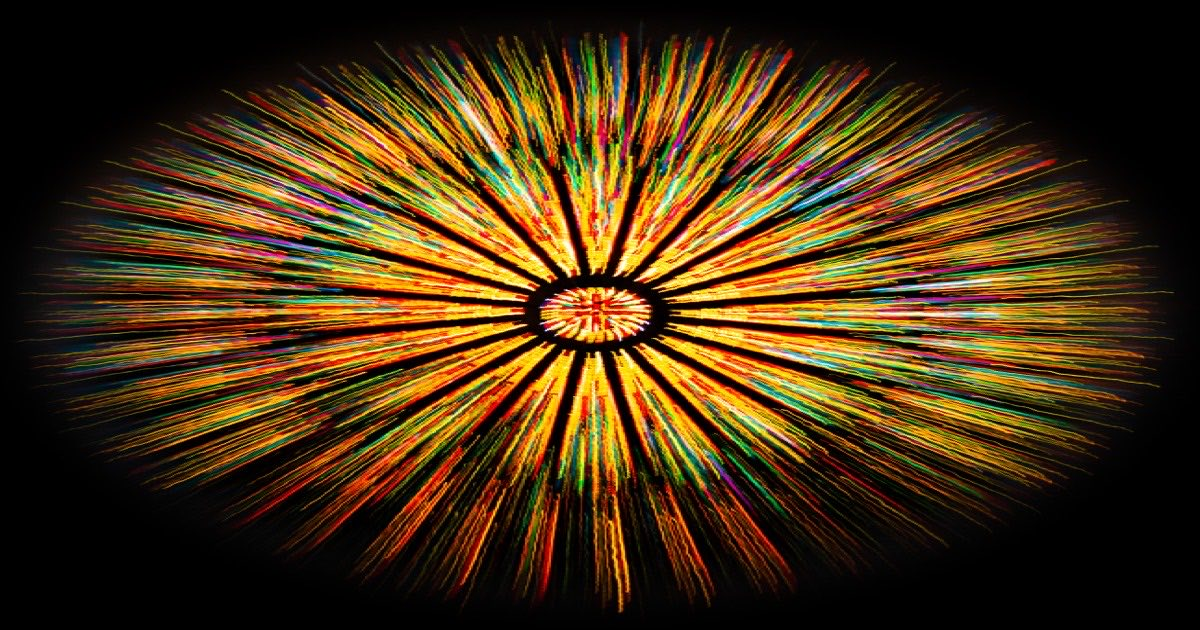
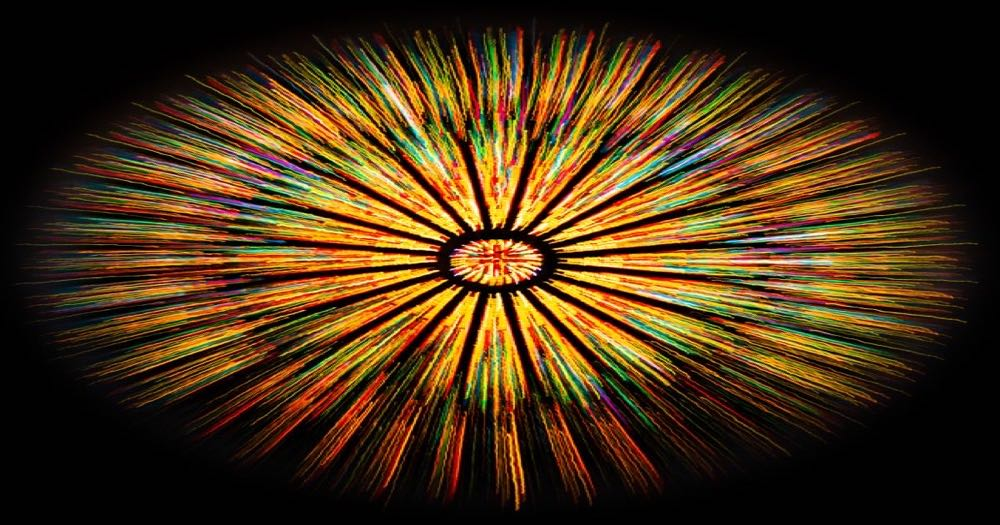
perf(images): compress blog heroes and fix budget accounting

diff --git a/scripts/check-bundle-size.js b/scripts/check-bundle-size.js
@@ -10,6 +10,7 @@ import { fileURLToPath } from 'url';
 
 const __dirname = path.dirname(fileURLToPath(import.meta.url));
 const distDir = path.join(__dirname, '../dist');
+const publicDir = path.join(__dirname, '../public');
 
 // Performance budgets (in KB)
 const BUDGETS = {
@@ -18,6 +19,7 @@ const BUDGETS = {
   largestJS: 100,    // Any single JS file
   largestCSS: 30,    // Any single CSS file
   images: 2500,      // Total image size (generous for hero images)
+  heroMax: 500,      // Individual hero image max
 };
 
 function getFileSizeKB(filePath) {
@@ -42,6 +44,23 @@ function getAllFiles(dir, ext, files = []) {
   return files;
 }
 
+function checkHeroImages() {
+  const heroDir = path.join(publicDir, 'images', 'blog');
+  if (!fs.existsSync(heroDir)) return { failed: false, oversized: [], heroFiles: [] };
+
+  const heroFiles = getAllFiles(heroDir, '.jpg');
+  const oversized = [];
+
+  heroFiles.forEach(file => {
+    const sizeKB = getFileSizeKB(file);
+    if (sizeKB > BUDGETS.heroMax) {
+      oversized.push({ file: path.basename(file), size: sizeKB });
+    }
+  });
+
+  return { failed: oversized.length > 0, oversized, heroFiles };
+}
+
 function checkBudgets() {
   if (!fs.existsSync(distDir)) {
     console.error('❌ Build directory not found. Run `pnpm build` first.');
@@ -54,6 +73,8 @@ function checkBudgets() {
     ...getAllFiles(distDir, '.jpg'),
     ...getAllFiles(distDir, '.png'),
     ...getAllFiles(distDir, '.webp'),
+    ...getAllFiles(distDir, '.gif'),
+    ...getAllFiles(distDir, '.avif'),
   ];
 
   const totalJS = jsFiles.reduce((sum, file) => sum + getFileSizeKB(file), 0);
@@ -62,6 +83,8 @@ function checkBudgets() {
   
   const largestJS = Math.max(...jsFiles.map(getFileSizeKB), 0);
   const largestCSS = Math.max(...cssFiles.map(getFileSizeKB), 0);
+
+  const heroCheck = checkHeroImages();
 
   let failed = false;
 
@@ -91,6 +114,17 @@ function checkBudgets() {
   const imagesStatus = totalImages <= BUDGETS.images ? '✅' : '❌';
   console.log(`${imagesStatus} Total Images: ${totalImages} KB / ${BUDGETS.images} KB`);
   if (totalImages > BUDGETS.images) failed = true;
+
+  // Check hero images
+  const heroStatus = heroCheck.failed ? '❌' : '✅';
+  console.log(`${heroStatus} Hero Images (<500KB each): ${heroCheck.heroFiles.length} checked, ${heroCheck.oversized.length} oversized`);
+  if (heroCheck.oversized.length > 0) {
+    console.log('Oversized heroes:');
+    heroCheck.oversized.forEach(({ file, size }) => {
+      console.log(`  - ${file}: ${size}KB`);
+    });
+    failed = true;
+  }
 
   console.log('');
 

diff --git a/CHANGELOG.md b/CHANGELOG.md
@@ -11,6 +11,7 @@ and this project adheres to [Semantic Versioning](https://semver.org/spec/v2.0.0
 
 - Sprint board dashboard at `/sprint` rendering `sprint-board/tasks.json` kanban-style
 - Sprint board enhancements: priority-based sorting and colors, column task counts, due date support with overdue highlighting
+- Server-side tag filtering + pagination (10/page) on blog index (`/blog/?tag=foo&page=2`) w/ prev/next nav (replaces client JS)
 
 ## [0.2.0] - 2026-02-21
 
